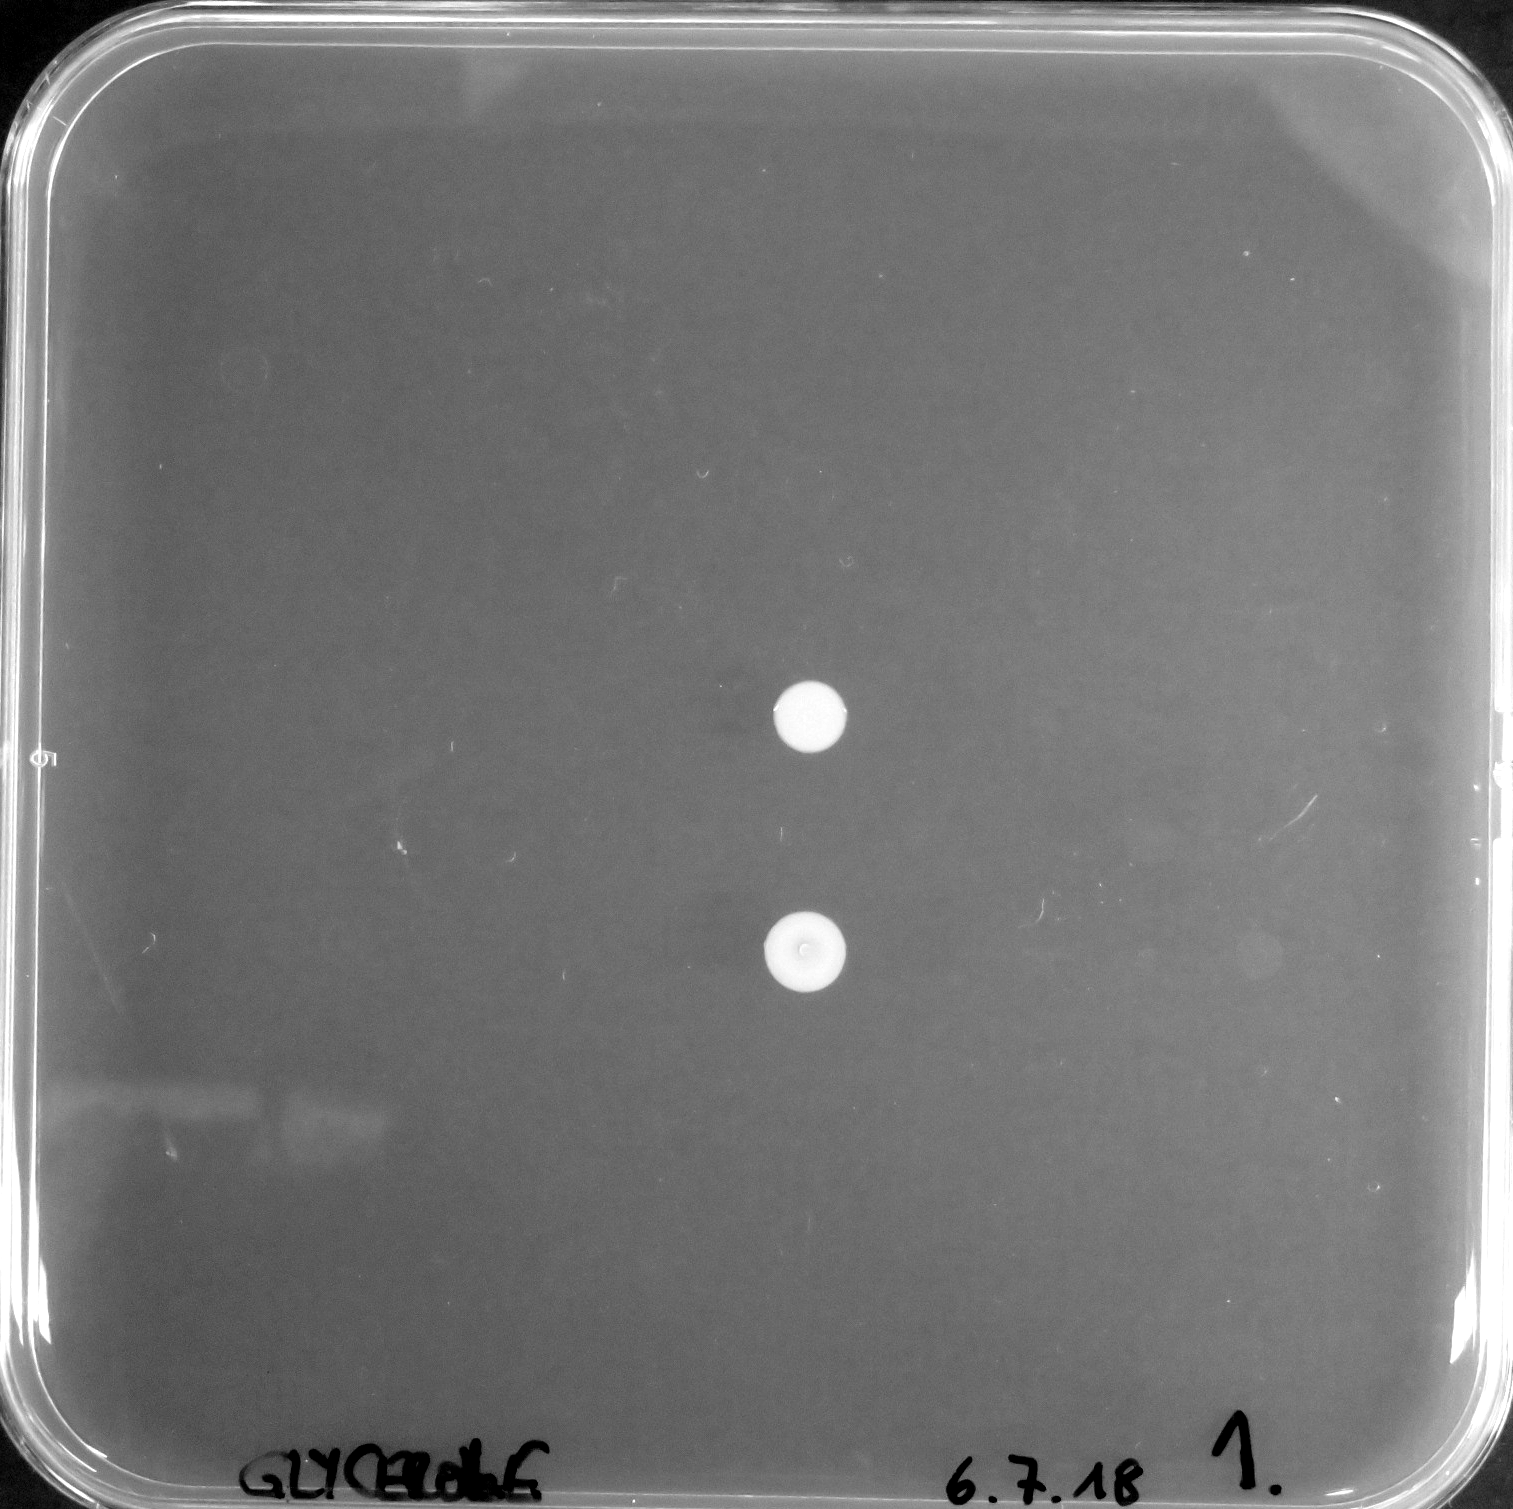
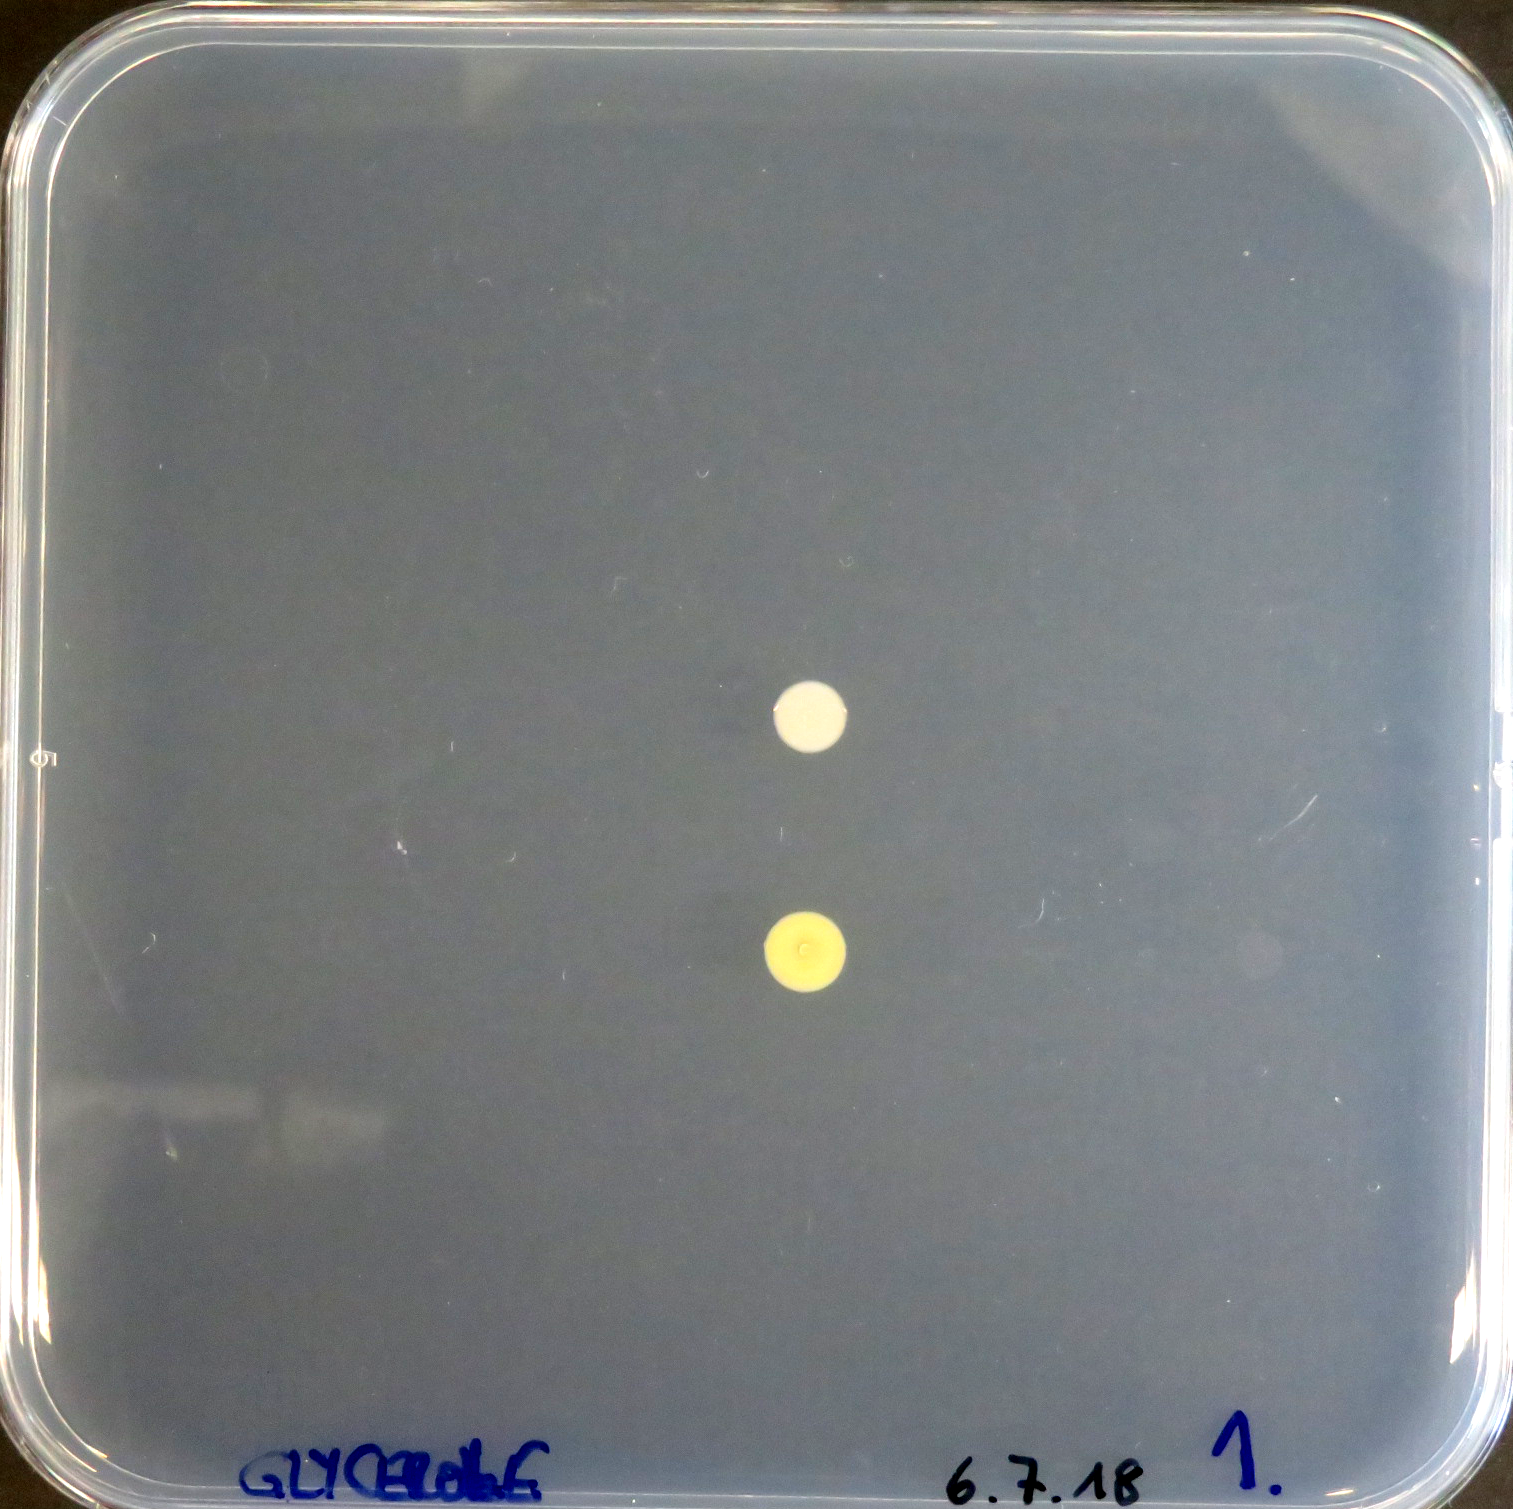
added color and constraint

diff --git a/platescan.py b/platescan.py
@@ -1,16 +1,17 @@
 import argparse,os,scipy
 import numpy as np
 import scipy.signal
-import matplotlib.pyplot as plt
-from skimage import io,exposure
+#import matplotlib.pyplot as plt
+from skimage import io,exposure,color
 from skimage.draw import circle,ellipse
 
 def trisect(image):
     # Use the mean value of each pixel row to perform auto-correlation and find the repeated plate edge
     print("Trisecting image")
+    image_gray = color.rgb2gray(image)
     
-    h,w = image.shape
-    rowMeans = [np.mean(image[i,:]) for i in range(0,h)]
+    h,w = image_gray.shape
+    rowMeans = [np.mean(image_gray[i,:]) for i in range(0,h)]
 
     # Treat the rowMeans as a signal
     # Use the fast fourier transform and auto-correlate to find repeats
@@ -25,9 +26,10 @@ def trisect(image):
     return(images)
 
 def cropImage(image,blank):
+    image_gray = color.rgb2gray(image)
     if blank is not None:
         # If a blank is provided, use that to crop the image to the plate
-        xcor = crossCorrelate(image,blank)
+        xcor = crossCorrelate(image_gray,blank)
         offset = np.where(xcor == xcor.max())
         h,w = blank.shape
         L = offset[1][0]
@@ -36,9 +38,9 @@ def cropImage(image,blank):
         B = offset[0][0]+h
     else:
         # Plate edge detection; performance highly dependent on lighting and plate type
-        h,w = image.shape
-        rowMeans = [np.mean(image[i,:]) for i in range(0,h)]
-        colMeans = [np.mean(image[:,i]) for i in range(0,w)]
+        h,w = image_gray.shape
+        rowMeans = [np.mean(image_gray[i,:]) for i in range(0,h)]
+        colMeans = [np.mean(image_gray[:,i]) for i in range(0,w)]
         
         # Smooth curves
         rowMeans = scipy.signal.savgol_filter(rowMeans,int(h/15)+1-int(h/15)%2,3)
@@ -55,7 +57,7 @@ def cropImage(image,blank):
     print("{}:{} left to right".format(L,R))
     print("{}:{} top to bottom".format(T,B))
     
-    return(image[T:B,L:R])
+    return(image[T:B,L:R,:])
         
 def crossCorrelate(a,b,boundary=None):
     #Perform a normalized cross-correlation of two arrays
@@ -68,19 +70,20 @@ def crossCorrelate(a,b,boundary=None):
     
     return(xcor)
     
-def findGrid(plate,nrows,ncols,layout,r,xGap,yGap,pad):
+def findGrid(plate,nrows,ncols,layout,r,rmax,xGap,yGap,pad):
     #Make an array of spots to use as a mask, cross-correlate with the plate image and find the best-fitting grid points
     print("  Finding colonies")
     
-    mask = -np.ones((round((2*pad)+((nrows-1)*yGap)),round((2*pad)+((ncols-1)*xGap))))
+    plate_gray = color.rgb2gray(plate)
+    mask = -np.ones((int(np.ceil((2*(pad+rmax))+((nrows-1)*yGap))),int(np.ceil((2*(pad+rmax))+((ncols-1)*xGap)))))
     for y in range(0,nrows):
         for x in range(0,ncols):
             if layout[y,x]:
-                mask[circle(pad+round(y*yGap),pad+round(x*xGap),r)] = 1
+                mask[circle(pad+rmax+np.floor(y*yGap),pad+rmax+np.floor(x*xGap),r)] = 1
 
-    xcor = crossCorrelate(plate,mask)
+    xcor = crossCorrelate(plate_gray,mask)
     offset = np.where(xcor == xcor.max())
-    offset = np.array((offset[0][0]+pad,offset[1][0]+pad))
+    offset = np.array((offset[0][0]+pad+rmax,offset[1][0]+pad+rmax))
     
     rowIndex = np.array([round(offset[0]+(y*yGap)) for y in range(0,nrows)],dtype=np.int32)
     colIndex = np.array([round(offset[1]+(x*xGap)) for x in range(0,ncols)],dtype=np.int32)
@@ -133,18 +136,19 @@ def wrapImage(image):
     
     return(wrapped)
 
-def findColony(cell,rmin,rmax):
+def findColony(cell,rmin,rmax,pad):
     #Find a colony by cross-correlation of ideal circular templates of different radii to create inside and outside regions
     
-    h,w = cell.shape
+    cell_gray = color.rgb2gray(cell)
+    h,w = cell_gray.shape
     
     offsets = []
     scores = []
     for r in np.arange(rmin,rmax,0.5):
         mask = -np.ones((h,w))
         mask[ellipse(int(h/2),int(w/2),r,r)] = 1
-        xcor = crossCorrelate(cell,mask,boundary='wrap')
-        offset = np.where(xcor==xcor[int(r):int(h)-int(r),int(r):int(w)-int(r)].max())
+        xcor = crossCorrelate(cell_gray,mask,boundary='wrap')
+        offset = np.where(xcor==xcor[int((xcor.shape[0]/2)-pad):int((xcor.shape[0]/2)+pad),int((xcor.shape[1]/2)-pad):int((xcor.shape[1]/2)+pad)].max())
         offset = (offset[0][0],offset[1][0])
         offsets.append(offset)
         scores.append(xcor.max())
@@ -154,54 +158,62 @@ def findColony(cell,rmin,rmax):
     offset = offsets[best]
     
     hili = np.copy(cell)
-    outside = np.ones(cell.shape,np.bool)
+    outside = np.ones(cell_gray.shape,np.bool)
     outside[ellipse(offset[0],offset[1],r,r)] = 0
-    hili[outside] = hili[outside]/2
+    for channel in range(0,3):
+        hili[:,:,channel][outside] = hili[:,:,channel][outside]/2
     return(offset[0],offset[1],r,max(scores),hili)
 
-def scoreColony(cell,r,offset):
+def scoreColony(cell,channel,r,offset):
     #Score a colony by summing the pixel array intensities after subtracting the mean intensity of the outside region
     
-    h,w = cell.shape
+    if channel == 3:
+        cell_single = color.rgb2gray(cell)
+    else:
+        cell_single = cell[:,:,channel]
+    h,w = cell_single.shape
     outside = np.ones((h,w),np.bool)
     outside[ellipse(offset[0],offset[1],r,r)] = 0    
-    
-    bg = np.mean(cell[outside])
-    fg = np.mean(cell[~outside])
-    bgvar = np.var(cell[outside])
-    fgvar = np.var(cell[~outside])
+
+    bg = np.mean(cell_single[outside])
+    fg = np.mean(cell_single[~outside])
+    bgvar = np.var(cell_single[outside])
+    fgvar = np.var(cell_single[~outside])
     return(bg,fg,bgvar,fgvar)
 
 def scoreGrowth(plate,rowIndex,colIndex,layout,rmin,rmax,pad):
-    #Find each cvarsolony within its cell, then score it according to brightness of pixels inside vs. outside the colony
+    #Find each colony within its cell, then score it according to brightness of pixels inside vs. outside the colony
     print("  Scoring growth")
     
     nrows = len(rowIndex)
     ncols = len(colIndex)
     
-    h,w = plate.shape
+    h,w,c = plate.shape
     hilighted = np.copy(plate)
     roffsets = np.zeros((nrows,ncols))
     coffsets = np.zeros((nrows,ncols))
     radii = np.zeros((nrows,ncols))
     ccscores = np.zeros((nrows,ncols))
-    bgs = np.zeros((nrows,ncols))
-    fgs = np.zeros((nrows,ncols))
-    bgvars = np.zeros((nrows,ncols))
-    fgvars = np.zeros((nrows,ncols))
+    
+    bgs = np.zeros((nrows,ncols,4))
+    fgs = np.zeros((nrows,ncols,4))
+    bgvars = np.zeros((nrows,ncols,4))
+    fgvars = np.zeros((nrows,ncols,4))
+
     for rid,row in enumerate(rowIndex):
         for cid,col in enumerate(colIndex):
             if layout[rid,cid]:
                 print("    Working on cell "+str(rid)+"x"+str(cid))
-                cell = plate[max(0,row-pad):min(h,row+pad),max(0,col-pad):min(w,col+pad)]
-                roffsets[rid,cid],coffsets[rid,cid],radii[rid,cid],ccscores[rid,cid],hili = findColony(cell,rmin,rmax)
-                bgs[rid,cid],fgs[rid,cid],bgvars[rid,cid],fgvars[rid,cid] = scoreColony(cell,radii[rid,cid],(roffsets[rid,cid],coffsets[rid,cid]))
-                hilighted[max(0,row-pad):min(h,row+pad),max(0,col-pad):min(w,col+pad)] = hili
+                cell = plate[max(0,row-pad-rmax):min(h,row+pad+rmax),max(0,col-pad-rmax):min(w,col+pad+rmax),:]
+                roffsets[rid,cid],coffsets[rid,cid],radii[rid,cid],ccscores[rid,cid],hili = findColony(cell,rmin,rmax,pad)
+                for channel in range(0,4):
+                    bgs[rid,cid,channel],fgs[rid,cid,channel],bgvars[rid,cid,channel],fgvars[rid,cid,channel] = scoreColony(cell,channel,radii[rid,cid],(roffsets[rid,cid],coffsets[rid,cid]))
+                hilighted[max(0,row-pad-rmax):min(h,row+pad+rmax),max(0,col-pad-rmax):min(w,col+pad+rmax),:] = hili
             
     return(hilighted,roffsets,coffsets,radii,ccscores,bgs,fgs,bgvars,fgvars)
 
 def formatResults(rowIndex,colIndex,layout,roffsets,coffsets,radii,ccscores,bgs,fgs,bgvars,fgvars):
-    results = np.empty(np.sum(layout),dtype=([('Strain','a3'),('Row','i8'),('Col','i8'),('PixelRow','i8'),('PixelCol','i8'),('Radius','f8'),('CCScore','f8'),('BgMean','f8'),('FgMean','f8'),('BgVar','f8'),('FgVar','f8')]))
+    results = np.empty(np.sum(layout),dtype=([('Strain','a3'),('Row','i8'),('Col','i8'),('PixelRow','i8'),('PixelCol','i8'),('Radius','f8'),('CCScore','f8'),('R_BgMean','f8'),('R_FgMean','f8'),('R_BgVar','f8'),('R_FgVar','f8'),('G_BgMean','f8'),('G_FgMean','f8'),('G_BgVar','f8'),('G_FgVar','f8'),('B_BgMean','f8'),('B_FgMean','f8'),('B_BgVar','f8'),('B_FgVar','f8'),('BgMean','f8'),('FgMean','f8'),('BgVar','f8'),('FgVar','f8')]))
     i = 0
     for row in range(0,len(rowIndex)):
         for col in range(0,len(colIndex)):
@@ -213,10 +225,22 @@ def formatResults(rowIndex,colIndex,layout,roffsets,coffsets,radii,ccscores,bgs,
                 results[i]['PixelCol'] = colIndex[col]+coffsets[row,col]
                 results[i]['Radius'] = radii[row,col]
                 results[i]['CCScore'] = ccscores[row,col]
-                results[i]['BgMean'] = bgs[row,col]
-                results[i]['FgMean'] = fgs[row,col]
-                results[i]['BgVar'] = bgvars[row,col]
-                results[i]['FgVar'] = fgvars[row,col]
+                results[i]['R_BgMean'] = bgs[row,col,0]
+                results[i]['R_FgMean'] = fgs[row,col,0]
+                results[i]['R_BgVar'] = bgvars[row,col,0]
+                results[i]['R_FgVar'] = fgvars[row,col,0]
+                results[i]['B_BgMean'] = bgs[row,col,1]
+                results[i]['B_FgMean'] = fgs[row,col,1]
+                results[i]['B_BgVar'] = bgvars[row,col,1]
+                results[i]['B_FgVar'] = fgvars[row,col,1]
+                results[i]['G_BgMean'] = bgs[row,col,2]
+                results[i]['G_FgMean'] = fgs[row,col,2]
+                results[i]['G_BgVar'] = bgvars[row,col,2]
+                results[i]['G_FgVar'] = fgvars[row,col,2]
+                results[i]['BgMean'] = bgs[row,col,3]
+                results[i]['FgMean'] = fgs[row,col,3]
+                results[i]['BgVar'] = bgvars[row,col,3]
+                results[i]['FgVar'] = fgvars[row,col,3]
                 i += 1
     return(results)
     
@@ -229,7 +253,8 @@ def outputResults(results,filename):
     fo.close()
 
 ### MAIN ###
-def __main__():
+if True:
+#def __main__():
     parser = argparse.ArgumentParser(description='Assessing colony growth on arrayed plates.')
     parser.add_argument('file',metavar='image_file',help='Image file of colonies arrayed on a plate(s)')
     parser.add_argument('-t','--three',action='store_true',help='Image contains three plates as repeats')
@@ -264,7 +289,7 @@ def __main__():
     if args.max_r is None:
         args.max_r = args.radius*2
 
-    #Get image name and path for output files
+    # Get image name and path for output files
     if args.output is None:
         args.output = os.path.splitext(args.file)[0]
 
@@ -275,13 +300,15 @@ def __main__():
         layout = np.ones((8,12))
     nrows,ncols = layout.shape
 
-    #Flip, invert, convert to grayscale and normalise levels to between 1% and 99%
-    image = io.imread(args.file,as_gray=True)
+    # Import image
+    image = io.imread(args.file)
+
     if args.scan:
         image = np.fliplr(1-image)
+    # Slight rescale to improve contrast
     p1,p99 = np.percentile(image,(1,99))
     image = exposure.rescale_intensity(image,(p1,p99))
-    h,w = image.shape
+    h,w,c = image.shape
 
     if args.three:
         plates = trisect(image)
@@ -292,14 +319,14 @@ def __main__():
         print("Plate "+str(pid+1)+":")
         cropped = cropImage(image,blank)
         io.imsave("{}_{}_cut.png".format(args.output,pid),cropped)
-        masked,rowIndex,colIndex = findGrid(cropped,nrows,ncols,layout,r=args.radius,xGap=args.xgap,yGap=args.ygap,pad=args.pad)
+        masked,rowIndex,colIndex = findGrid(cropped,nrows,ncols,layout,r=args.radius,rmax=args.max_r,xGap=args.xgap,yGap=args.ygap,pad=args.pad)
         io.imsave("{}_{}_mask.png".format(args.output,pid),masked)
         hilighted,roffsets,coffsets,radii,ccscores,bgs,fgs,bgvars,fgvars = scoreGrowth(cropped,rowIndex,colIndex,layout,rmin=args.min_r,rmax=args.max_r,pad=args.pad)
         io.imsave("{}_{}_hili.png".format(args.output,pid),hilighted)
         results = formatResults(rowIndex,colIndex,layout,roffsets,coffsets,radii,ccscores,bgs,fgs,bgvars,fgvars)
         outputResults(results,"{}_{}.txt".format(args.output,pid))
 
-    return()
+    #return()
 
-if __name__ == "__main__":
-    __main__()
+#if __name__ == "__main__":
+#    __main__()
